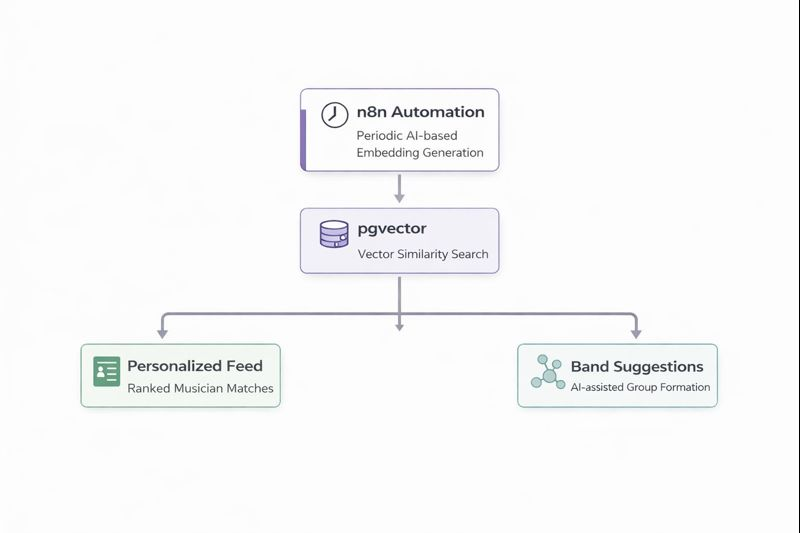
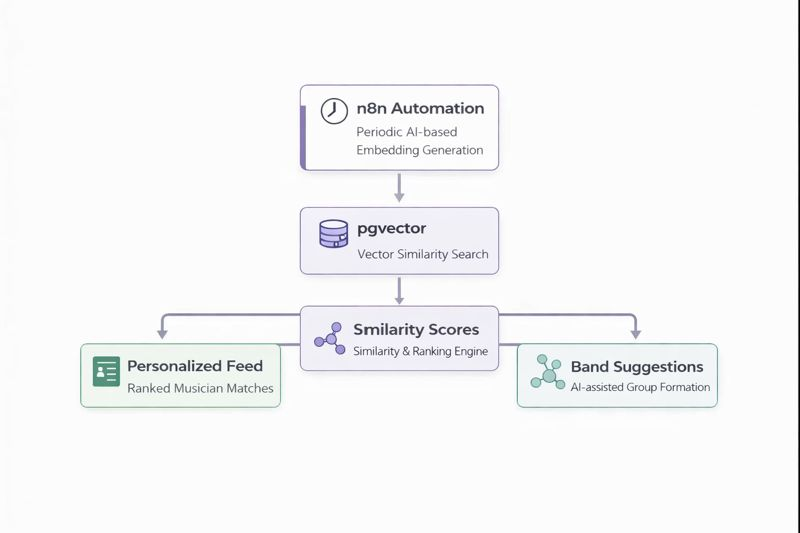
Updated readme

diff --git a/README.md b/README.md
@@ -23,7 +23,7 @@ See the [LICENSE](LICENSE) file for more information.
 
 ### System design
 
-<img src="./readme/System-design 1.svg"/>
+<img src="./readme/system.jpeg"/>
 
 ### Figma design
 
@@ -86,7 +86,6 @@ See the [LICENSE](LICENSE) file for more information.
 
 <br><br>
 
-### Embedding-Driven Music Discovery & Band Formation Workflow
 |Embedding-Driven Music Discovery & Band Formation|Audio analyze and Ai backing tracks|
 |--------|------------|
 | ![](./readme/workflow1.png) | ![](./readme/workflow2.jpeg) |
